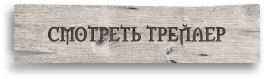
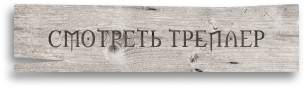
Добавил css стили и разбил их по модулям. Сверстал версия для декстопа

diff --git a/index.html b/index.html
@@ -6,12 +6,13 @@
     <meta http-equiv="X-UA-Compatible" content="IE=edge">
     <meta name="viewport" content="width=device-width, initial-scale=1.0">
     <link rel="stylesheet" href="css/index.css">
+    <link rel="preload" href="fonts/ibm-plex-mono-latin_cyrillic-500.woff2" as="font" type="font/woff2" crossorigin>
     <title>The Witcher | Ведьмак | 2 сезон 17 декабря</title>
 </head>
 
 <body>
     <header class="header">
-        <div class="container">
+        <div class="container header__container">
             <img src="img/logo.svg" alt="The Witcher's logo" width="93" height="85" cla78ss="header__logo">
 
             <p class="header__announcment">2 сезон уже с 17 декабря</p>
@@ -47,7 +48,7 @@
                 <p class="present__tagline">Те, кто связан предназначением,
                     всегда найдут друг друга
                 </p>
-                <a href="https://youtu.be/aTPPmHqMZOw" class="present__btn">Смотреть трейлер</a>
+                <a href="https://youtu.be/aTPPmHqMZOw" class="present__btn"></a>
             </div>
 
             <div class="present__tabs tabs">
@@ -56,10 +57,10 @@
                         <button class="tabs__btn tabs__btn-">Видео</button>
                     </li>
                     <li class="tabs__btn-wrapper">
-                        <button class="tabs__btn">Фото</button>
+                        <button class="tabs__btn tabs__btn-">Фото</button>
                     </li>
                     <li class="tabs__btn-wrapper">
-                        <button class="tabs__btn">Мерч</button>
+                        <button class="tabs__btn tabs__btn-">Мерч</button>
                     </li>
                 </ul>
                 <ul class="tabs__list">

diff --git a/css/product.css b/css/product.css
@@ -1,0 +1,58 @@
+.product__btn-icon {
+    width: 24px;
+    height: 24px;
+}
+
+.product__img {
+    width: 100%;
+    height: 176px;
+    object-fit: cover;
+    object-position: center;
+    margin-bottom: 10px;
+}
+
+.product__wrapper-buy {
+    display: flex;
+    justify-content: space-between;
+}
+
+.product__btn-buy {
+    display: flex;
+    justify-content: center;
+    align-items: center;
+    width: 36px;
+    height: 36px;
+    background-color: transparent;
+    border: 1px solid transparent;
+    color: #fff;
+    border-radius: 50%;
+    transition: 
+     color .2s ease-in, 
+     background-color .3s ease-in,
+     border-color .3s ease-in;
+    outline: none;
+}
+
+.product__btn-buy:hover {
+    background-color: rgba(255, 255, 255, 0.19);
+}
+
+.product__btn-buy:active {
+    background-color: rgba(255, 255, 255, 0.19);
+    color: #B3B3B3;
+}
+
+.product__btn-buy:focus {
+    border-color: #9B9B9B;
+    background-color: rgba(255, 255, 255, 0.19);
+}
+
+.product__title {
+    font-size: 20px;
+    line-height: 120%;
+    margin-bottom: 5px;
+}
+
+h2 {
+    font-size: 20px;
+}

diff --git a/css/navigation.css b/css/navigation.css
@@ -1,0 +1,37 @@
+.navigation__list {
+    display: flex;
+    gap: 25px;
+}
+
+.navigation__link {
+    background-color: rgba(255, 255, 255, 0.7);
+    width: 40px;
+    height: 40px;
+    display: block;
+    border-radius: 50%;
+    background-position: center;
+    background-repeat: no-repeat;
+    border: 1px solid transparent;
+    transition: border 0.3s ease-in-out, box-shabow 0.3s ease-in-out;
+    outline: 0;
+}
+
+.navigation__link:focus {
+    border-color: #5B5B5B
+}
+
+.navigation__link:active, .navigation__link:hover {
+    box-shadow: 0px 1px 5px rgba(0, 0, 0, 0.7);
+}
+
+.navigation__link-netflix {
+    background-image: url(../img/netflix.svg);
+} 
+
+.navigation__link-okko {
+    background-image: url(../img/okko.svg);
+}
+
+.navigation__link-kinopoisk {
+    background-image: url(../img/kinopoisk.svg);
+}

diff --git a/css/tabs.css b/css/tabs.css
@@ -1,0 +1,30 @@
+.tabs__control {
+    display: flex;
+    justify-content: space-between;
+    background: rgba(0, 0, 0, 0.7);
+    padding: 13px 21px;
+    max-width: 285px;
+    margin-left: auto;
+    margin-bottom: 12px;
+    height: auto;
+}
+
+.tabs__btn {
+    font-weight: 700;
+    line-height: 1;
+    background-color: transparent;
+    border-width: 0;
+    color: #fff;
+    border-bottom: 2px solid transparent;  
+}
+
+.tabs__btn-:hover {
+    transition: border-color 0.5s ease-in-out;   
+    border-bottom:2px solid #fff;  
+}
+
+.tabs__content {
+    display: flex;
+    justify-content: space-between;
+    gap: 30px;
+}

diff --git a/css/present.css b/css/present.css
@@ -1,0 +1,31 @@
+.present {
+    padding-top: 17px;
+}
+
+.present__title {
+    font-family: IBM Plex Mono;
+    font-weight: 500;
+    font-size: 90px;
+    line-height: 120%;
+    margin-bottom: 8px;
+}
+
+.present__tagline {
+    line-height: 130%;
+    margin-bottom: 54px;
+}
+
+.present__btn {
+    display: block;
+    width: 285px;
+    height: 68px;
+    background-image: url(../img/button.png);
+    filter: drop-shadow(-4px 6px 10px rgba(10, 10, 10, 0.51));
+    border-radius: 2px;
+    background-position: center;
+    background-size: cover;
+}
+
+.present__hero {
+    margin-bottom: 30px;
+}

diff --git a/css/card.css b/css/card.css
@@ -1,0 +1,27 @@
+.card__video {
+    flex-basis: 285px;
+}
+
+.card__video {
+    width: 100%;
+    height: 146px;
+    object-fit: cover;
+    object-position: center;
+    margin-bottom: 10px;
+}
+
+.card-img {
+    flex-basis: 255px;
+
+}
+
+.card__photo-img {
+    width: 100%;
+    height: 206px;
+    object-fit: cover;
+    object-position: center;
+}
+
+.card-product {
+    flex-basis: 285px;
+}

diff --git a/css/header.css b/css/header.css
@@ -1,0 +1,19 @@
+.header {
+     padding-top: 20px;
+     padding-bottom: 10px;
+}
+
+.header__container {
+    display: grid;
+    grid-template-columns: repeat(3, 1fr);
+    align-items: center;
+}
+
+.header__announcment {
+    justify-self: center;
+}
+
+.header__navigation {
+    justify-self: end;
+}
+

diff --git a/css/index.css b/css/index.css
@@ -1,3 +1,10 @@
 @import 'normalize.css';
 @import 'fonts.css';
 @import 'page.css';
+@import 'header.css';
+@import 'navigation.css';
+@import 'present.css';
+@import 'tabs.css';
+@import 'card.css';
+@import 'product.css';
+
